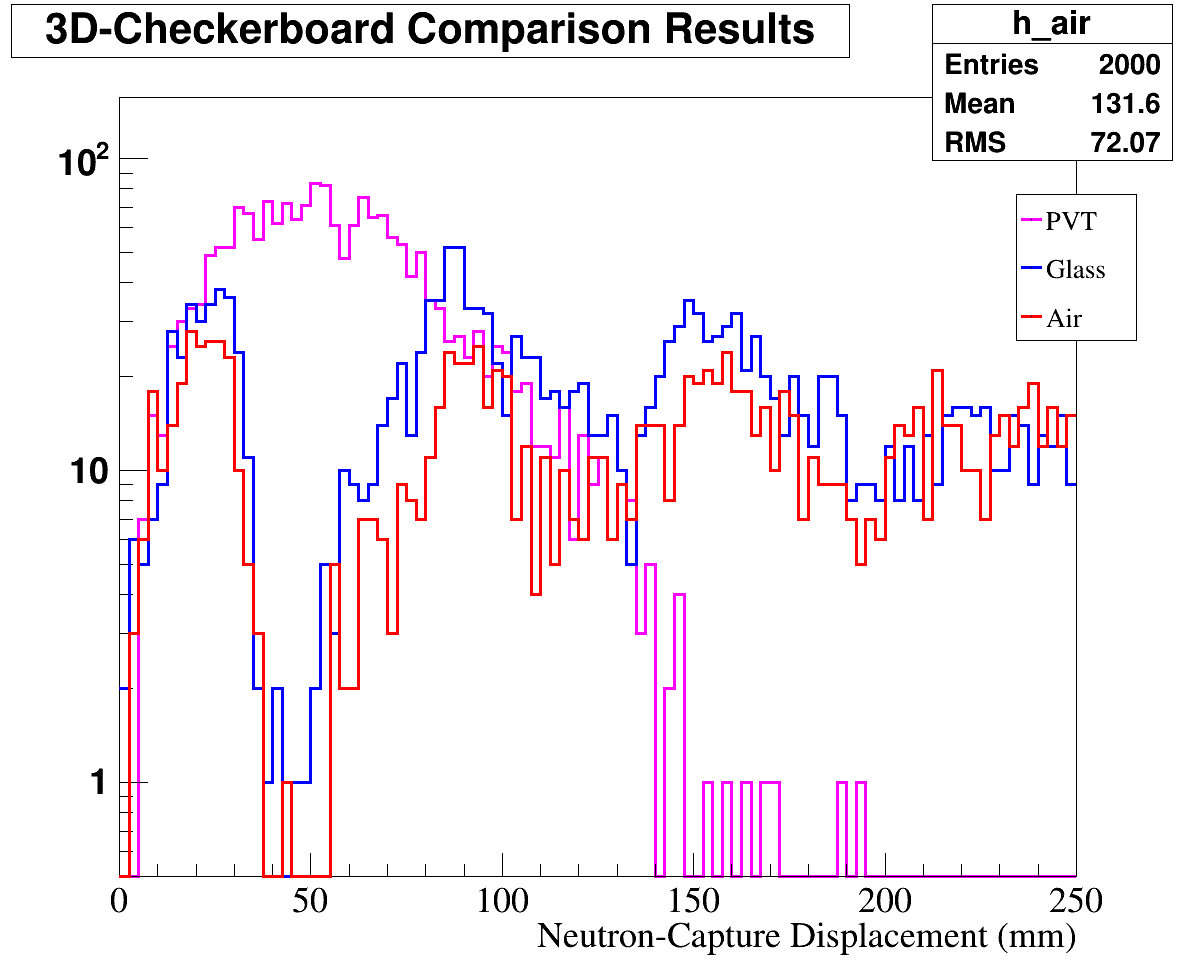
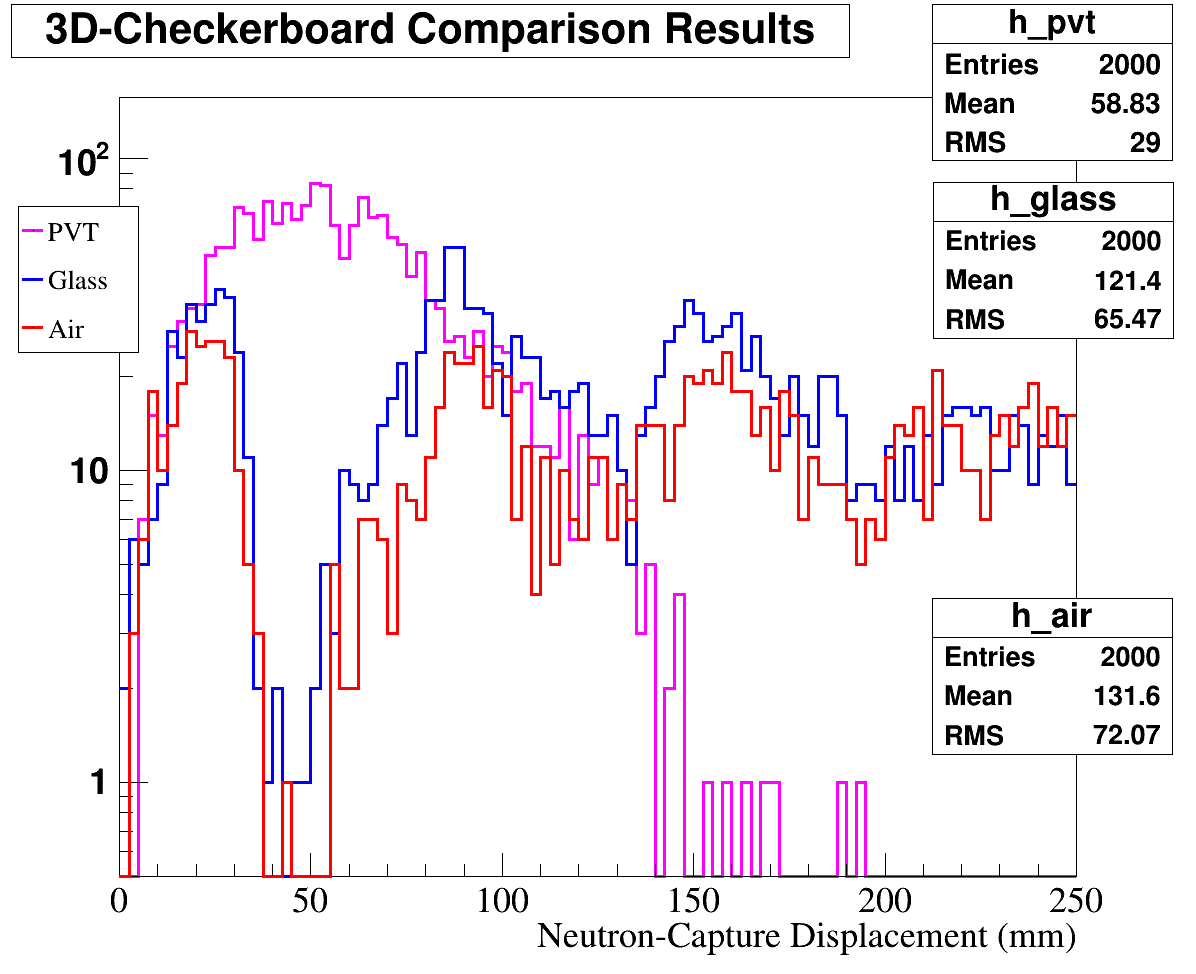
minor correction

diff --git a/data/comparison_3d-chkbd/results/C/c_comp_R.C b/data/comparison_3d-chkbd/results/C/c_comp_R.C
@@ -1,6 +1,6 @@
 {
 //=========Macro generated from canvas: c_comp_R/Comparison
-//=========  (Wed Jun 23 15:36:40 2021) by ROOT version5.34/30
+//=========  (Wed Jun 23 15:43:02 2021) by ROOT version5.34/30
    TCanvas *c_comp_R = new TCanvas("c_comp_R", "Comparison",720,80,1200,1000);
    c_comp_R->SetHighLightColor(2);
    c_comp_R->Range(-31.25,-0.6132371,281.25,2.508834);
@@ -207,13 +207,13 @@
    h_glass->SetBinContent(101,278);
    h_glass->SetEntries(2000);
    
-   ptstats = new TPaveStats(0.78,0.835,0.98,0.995,"brNDC");
+   ptstats = new TPaveStats(0.7801003,0.6529774,0.9807692,0.8131417,"brNDC");
    ptstats->SetName("stats");
    ptstats->SetBorderSize(1);
    ptstats->SetFillColor(0);
    ptstats->SetTextAlign(12);
    text = ptstats->AddText("h_glass");
-   text->SetTextSize(0.0368);
+   text->SetTextSize(0.03683778);
    text = ptstats->AddText("Entries = 2000   ");
    text = ptstats->AddText("Mean  =  121.4");
    text = ptstats->AddText("RMS   =  65.47");
@@ -327,13 +327,13 @@
    h_air->SetBinContent(101,832);
    h_air->SetEntries(2000);
    
-   ptstats = new TPaveStats(0.78,0.835,0.98,0.995,"brNDC");
+   ptstats = new TPaveStats(0.7792642,0.2258727,0.9799331,0.386037,"brNDC");
    ptstats->SetName("stats");
    ptstats->SetBorderSize(1);
    ptstats->SetFillColor(0);
    ptstats->SetTextAlign(12);
    text = ptstats->AddText("h_air");
-   text->SetTextSize(0.0368);
+   text->SetTextSize(0.03683778);
    text = ptstats->AddText("Entries = 2000   ");
    text = ptstats->AddText("Mean  =  131.6");
    text = ptstats->AddText("RMS   =  72.07");
@@ -350,7 +350,7 @@
    h_air->GetXaxis()->SetTitleFont(132);
    h_air->Draw("sames");
    
-   TLegend *leg = new TLegend(0.85,0.65,0.95,0.8,NULL,"brNDC");
+   TLegend *leg = new TLegend(0.01505017,0.6386037,0.1153846,0.788501,NULL,"brNDC");
    leg->SetBorderSize(1);
    leg->SetTextFont(132);
    leg->SetLineColor(1);
